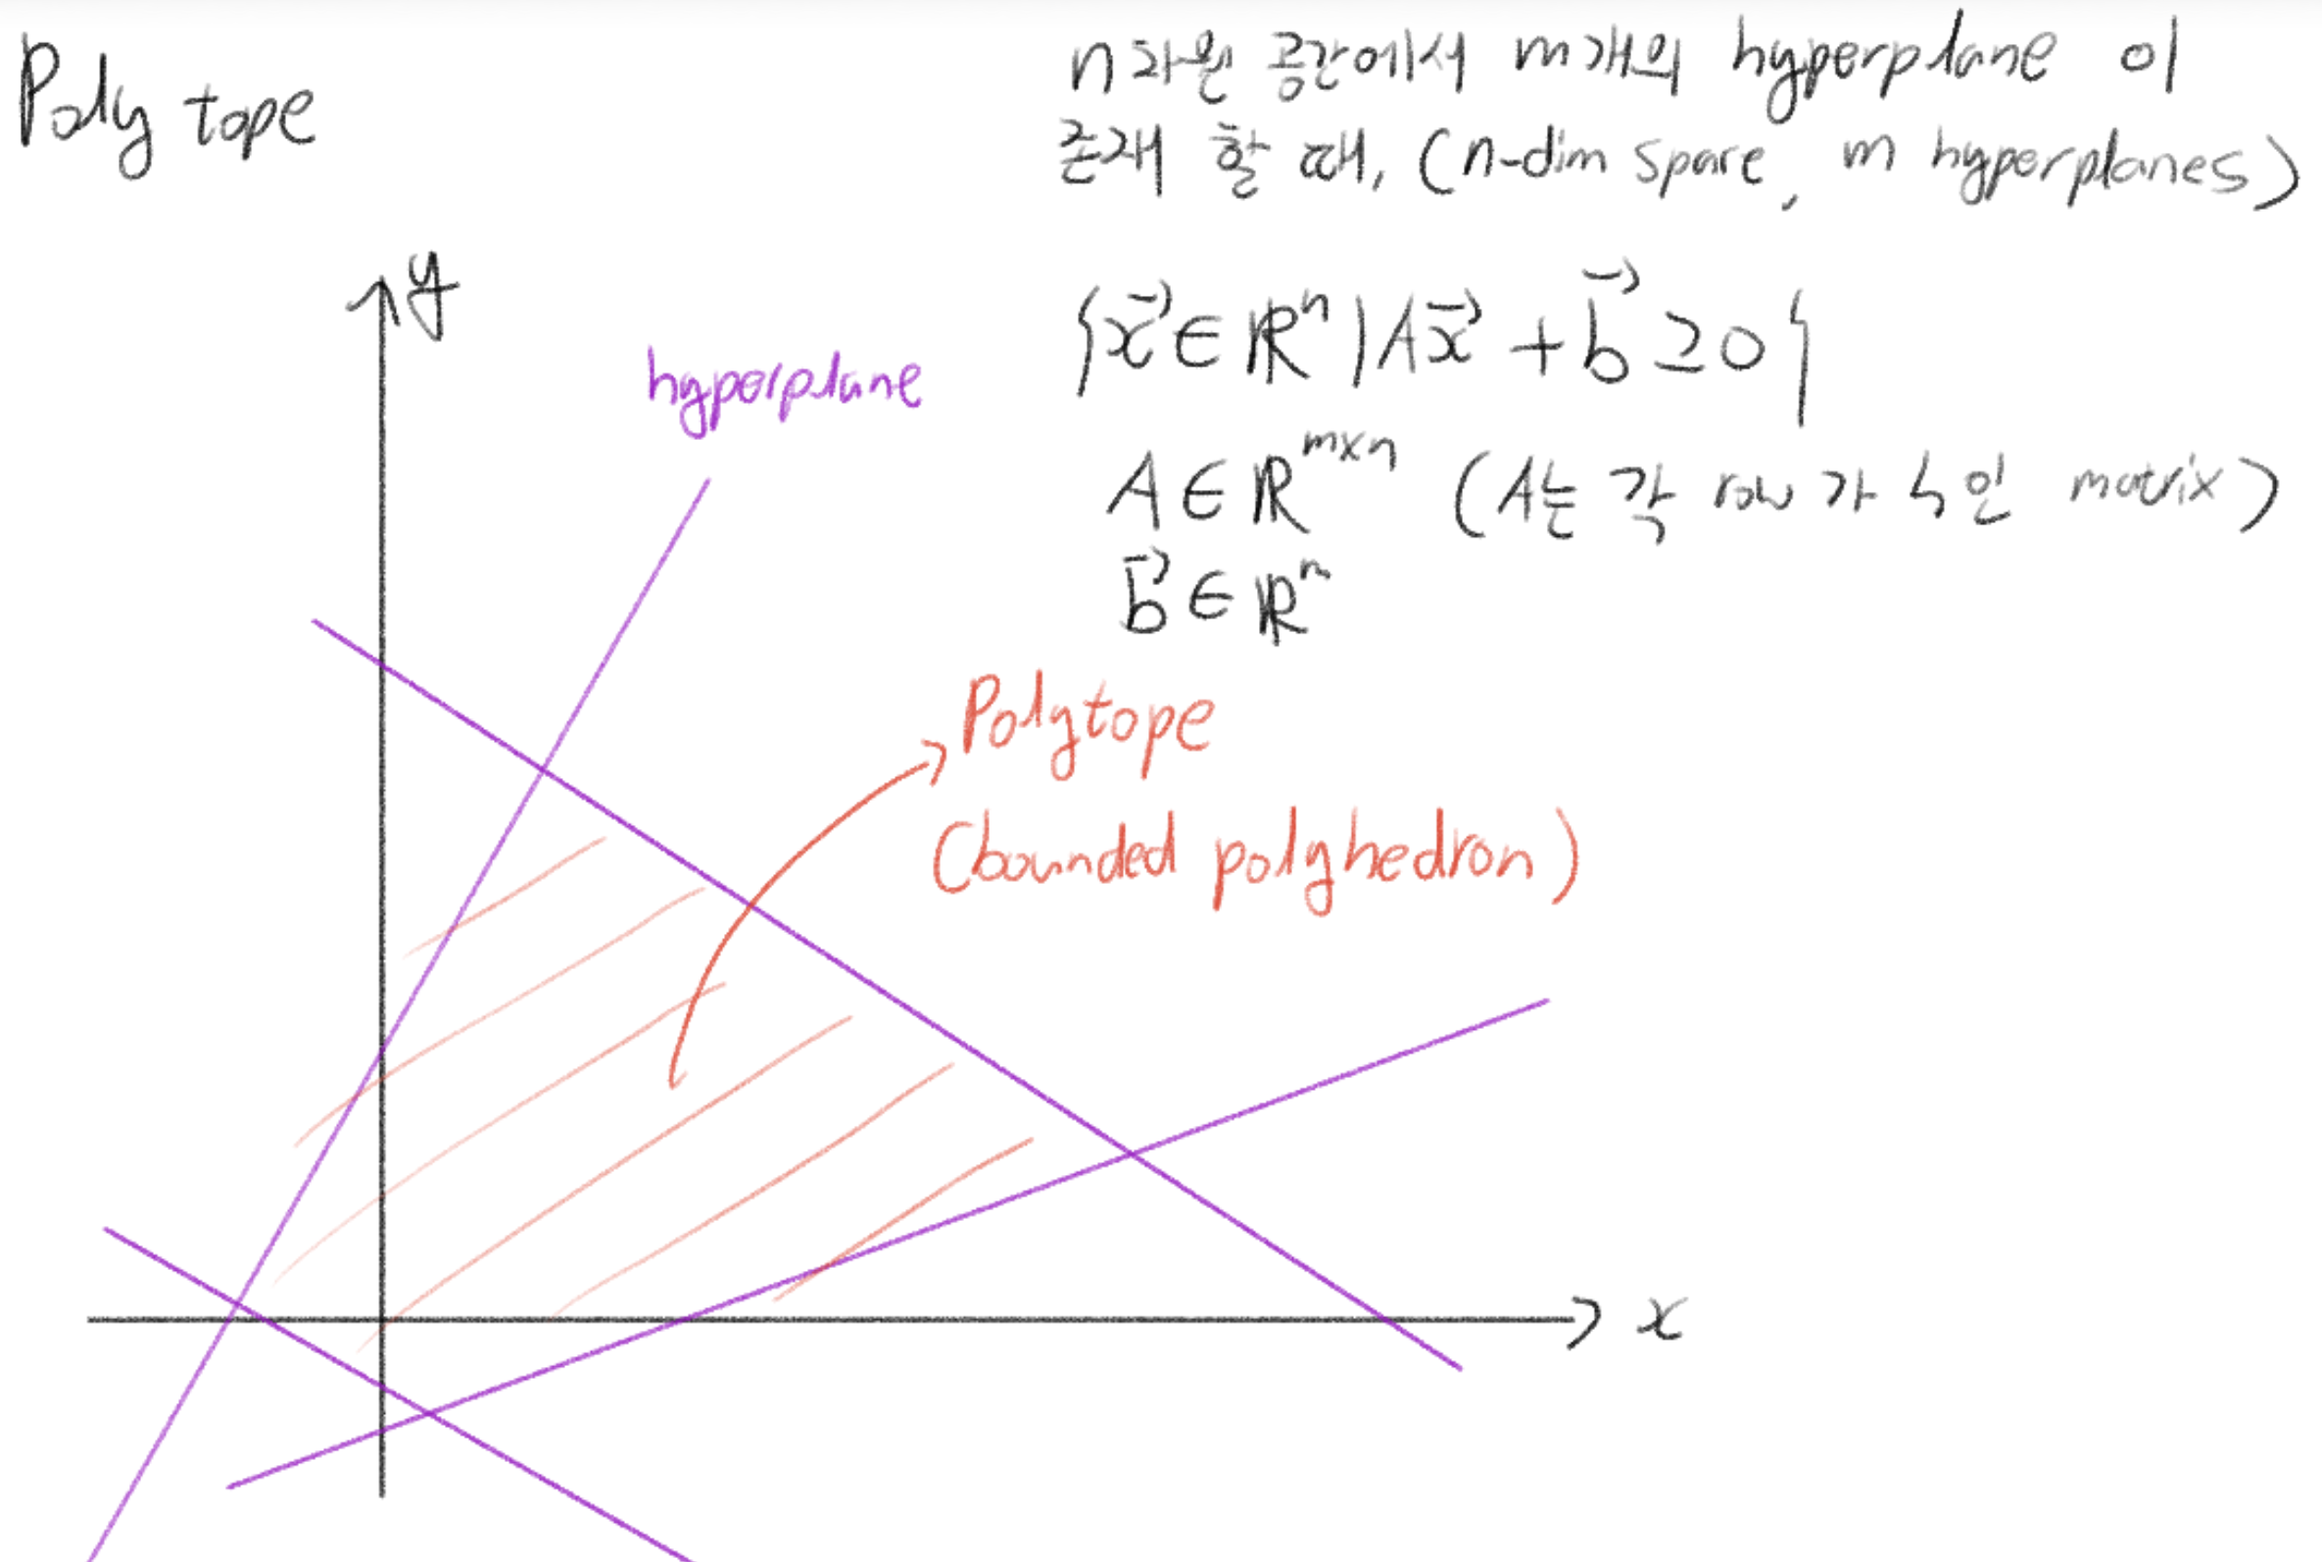
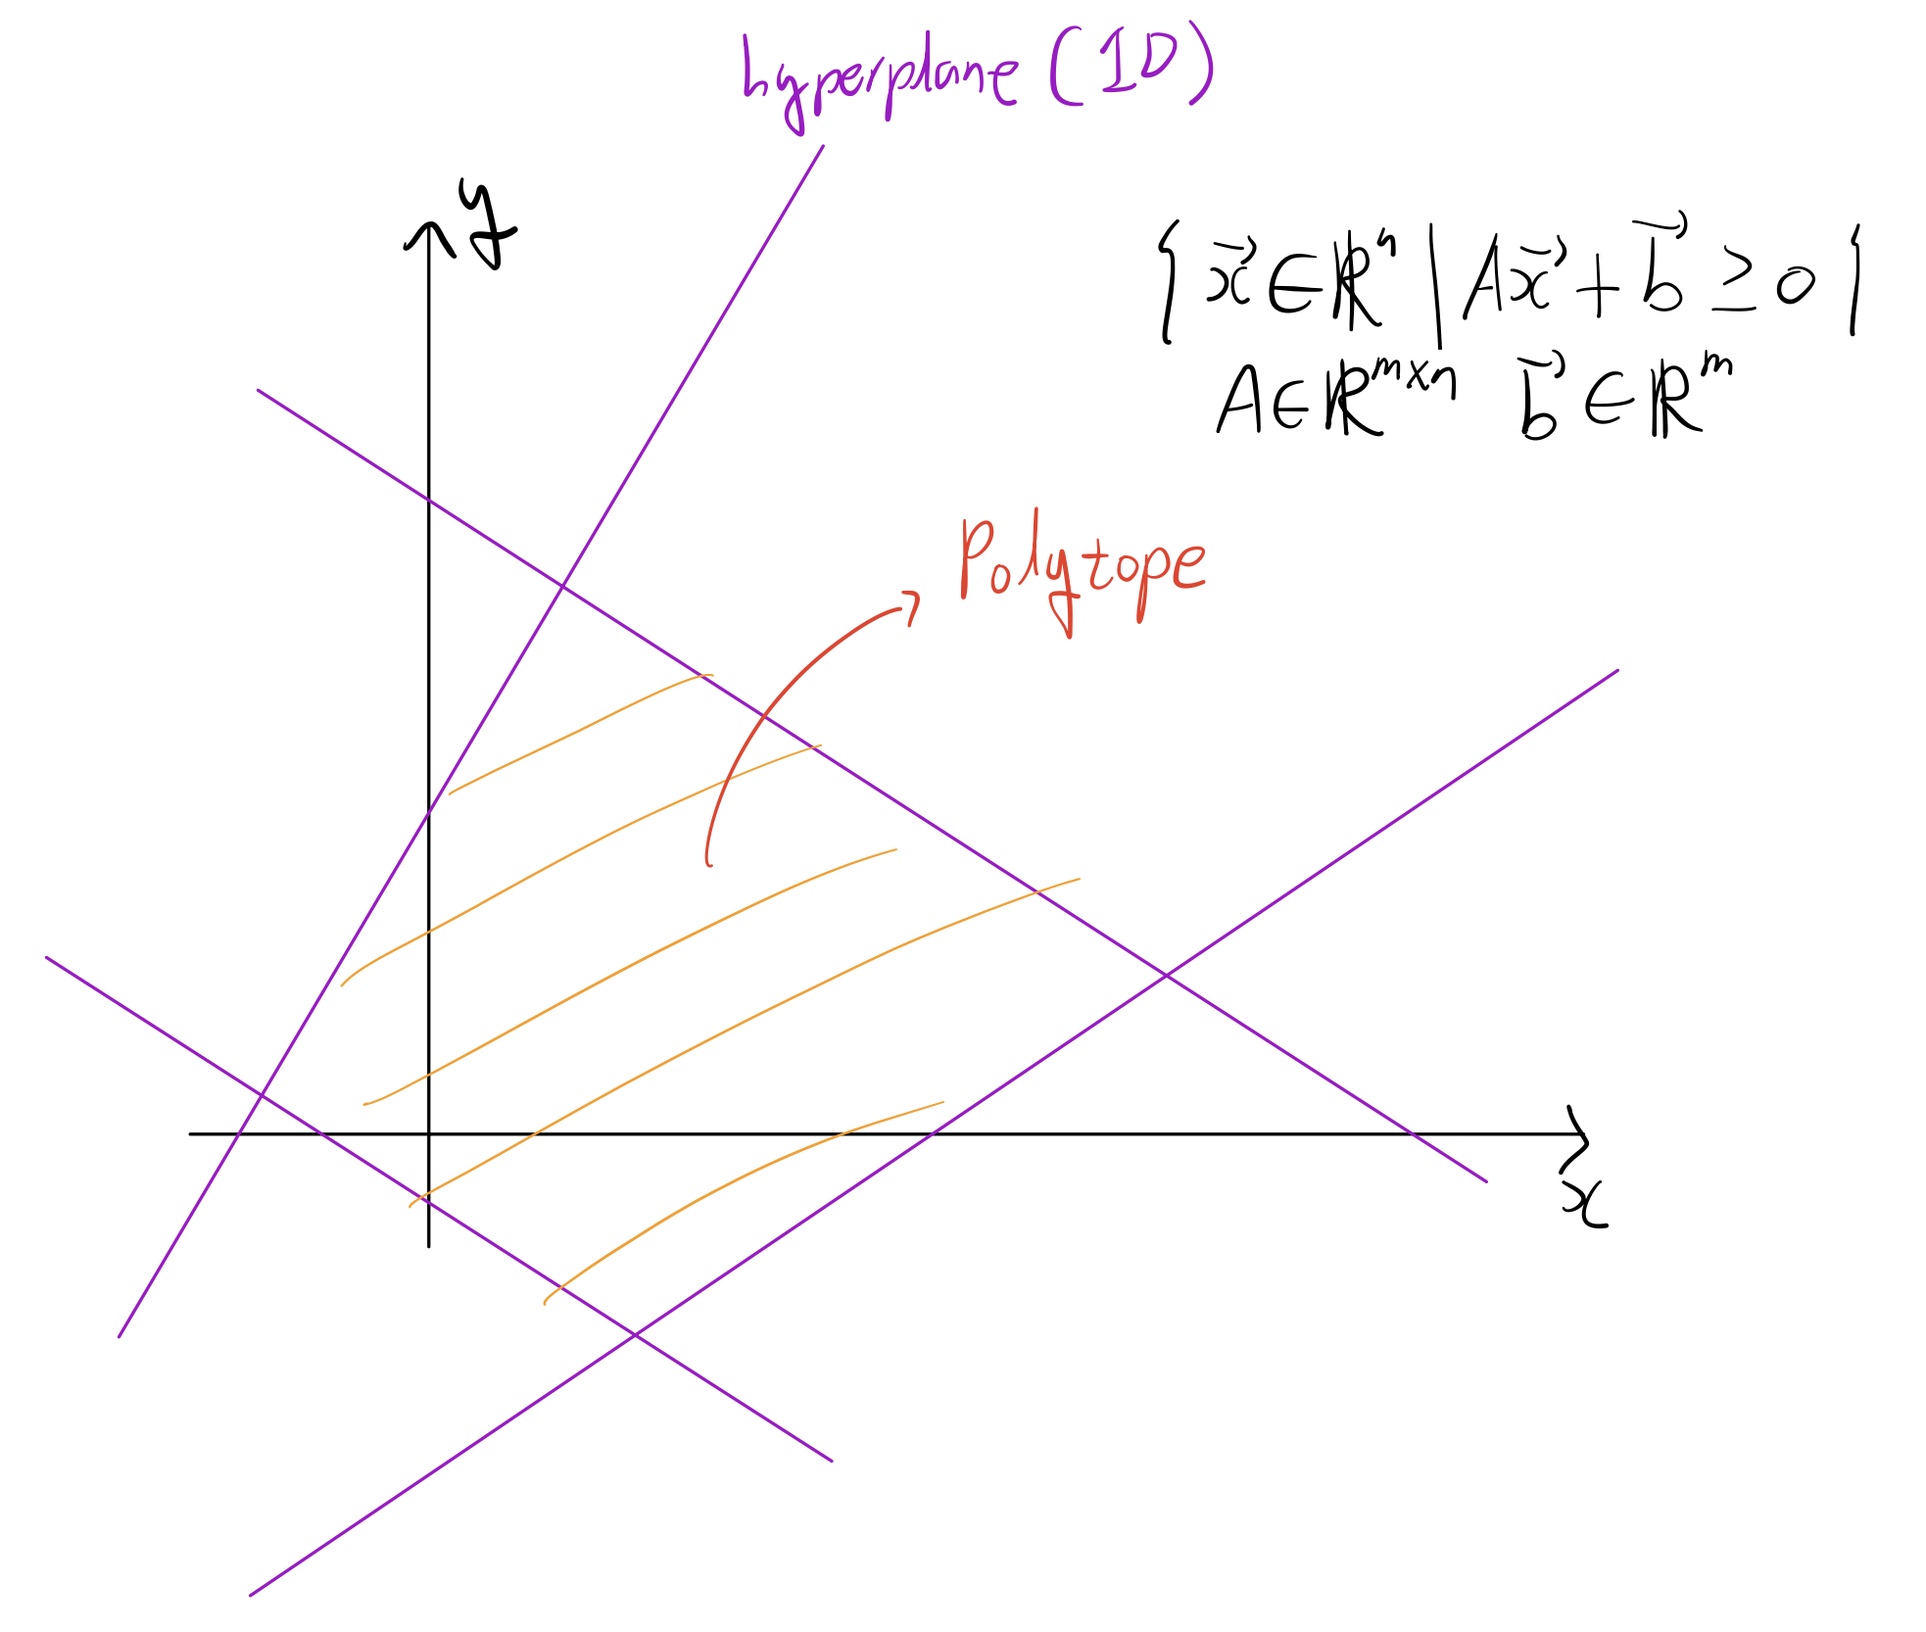
refactor : update image

diff --git a/content/posts/polyhedral-compiler-analysis/index.md b/content/posts/polyhedral-compiler-analysis/index.md
@@ -47,6 +47,13 @@ $k = h\vec{v}$ (k는 상수)
 
 Polyhedron이란, 유한 개의 Affine hyperplane으로 인해 나눠진 공간 (half-space) 의 교집합입니다. 그리고, bounded된 polyhedron을 polytope이라고 부릅니다. (닫힌 공간이라는 의미입니다)
 
+아래 그림에서는, 4개의 1D hyperplane (2D space 이므로 hyperplane은 1D) 가 존재하며, 이로 인해 polytope를 정의할 수 있습니다. 즉, 다음 식에서 정의한 $\vec{x}$의 집합이라 할 수 있지요.
+
+$\{\vec{x} \in \mathbb{R} | A\vec{x} + \vec{b} \ge 0 \}$
+
+$A \in \mathbb{R}^{m \times n}, \vec{b} \in \mathbb{R}^m$ (n 차원에서 m개의 hyperplane으로 인해 bound된 polyhedron일 때)
+
+
 ![polytope](polytope.png)
 
 ### Farkas Lemma
